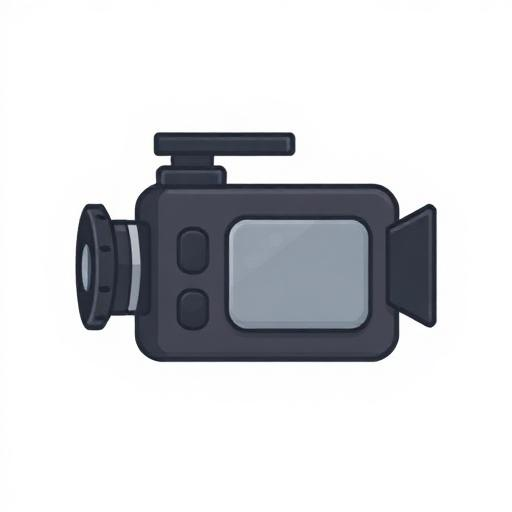
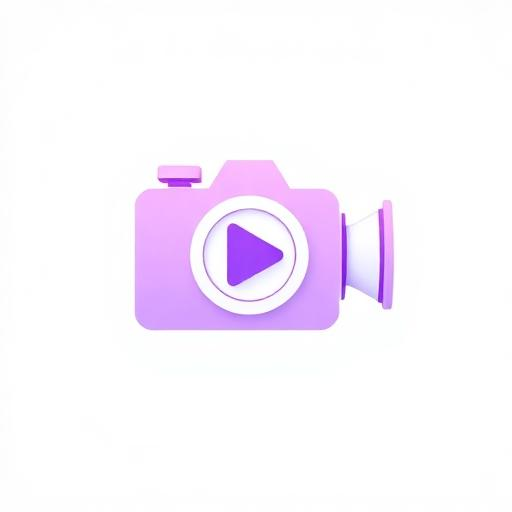
Improve card image quality
Replace the current card images with more visually appealing ones.

Changed region(s): [[0.125, 0.25, 0.875, 0.7188]]

diff --git a/src/pages/Index.tsx b/src/pages/Index.tsx
@@ -3,6 +3,7 @@ import { Bell, ChevronRight } from 'lucide-react';
 import { TapCard } from '@/components/ui/tap-card';
 import characterImage from '@/assets/character.png';
 import cameraImage from '@/assets/camera.png';
+import profilePlaceholder from '@/assets/profile-placeholder.png';
 
 const Index = () => {
   const handleCardClick = (cardName: string) => {
@@ -16,7 +17,7 @@ const Index = () => {
         <div className="flex items-center gap-3">
           <div className="w-10 h-10 rounded-full bg-gray-300 overflow-hidden">
             <img 
-              src="/placeholder.svg" 
+              src={profilePlaceholder} 
               alt="Profile" 
               className="w-full h-full object-cover"
             />
